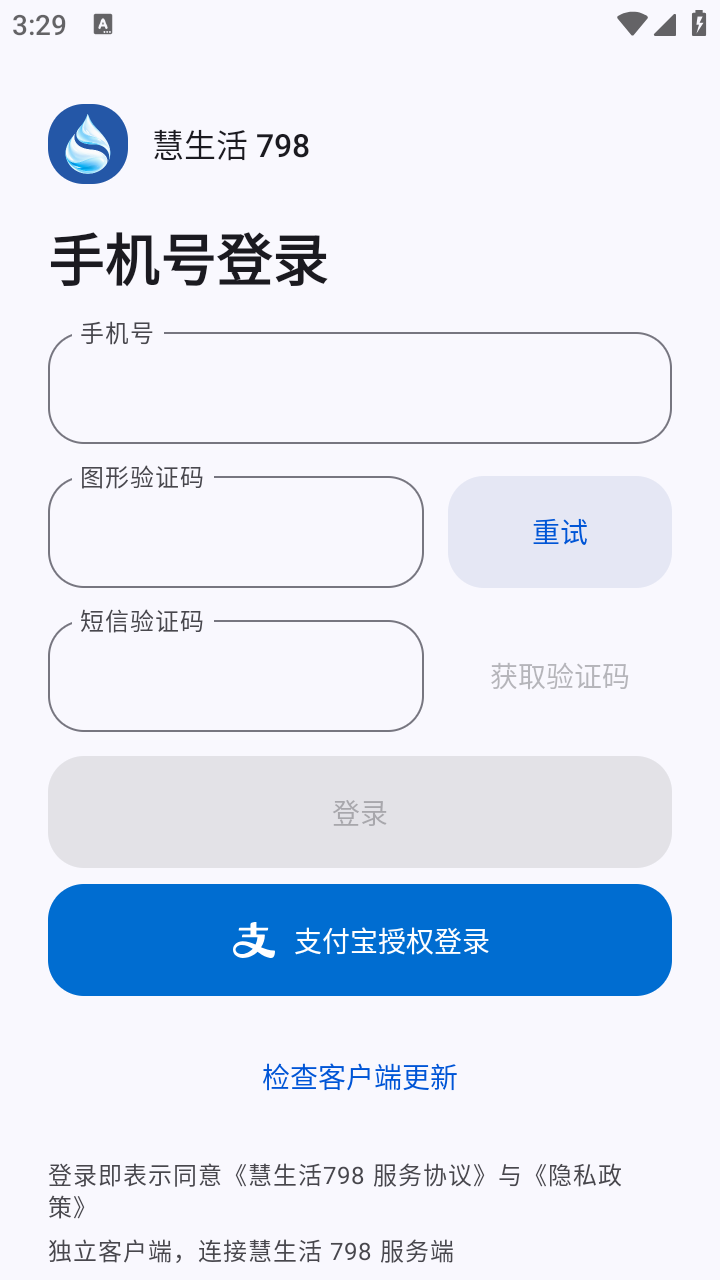
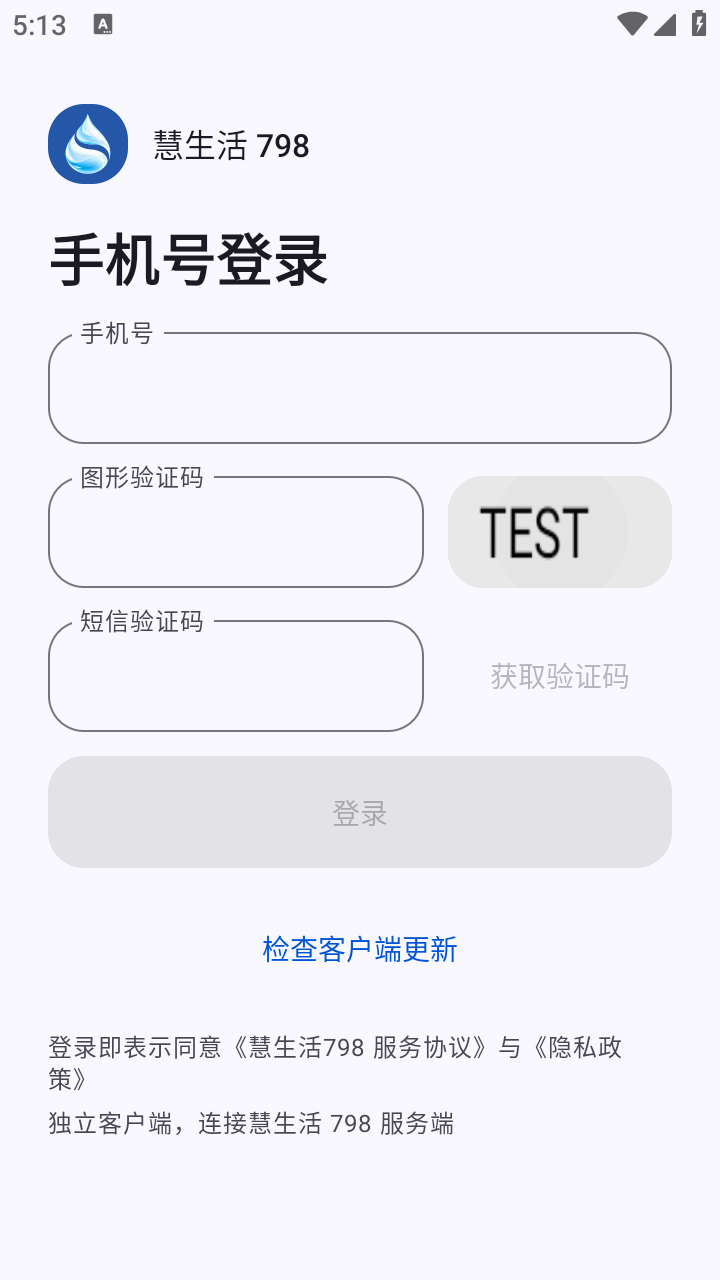
chore(release): 移除支付宝授权登录并准备 2.4.3

diff --git a/SmartLife798/app/src/main/java/com/smartlife798/app/ui/LoginScreen.kt b/SmartLife798/app/src/main/java/com/smartlife798/app/ui/LoginScreen.kt
@@ -6,7 +6,6 @@
 package com.smartlife798.app.ui
 
 import android.graphics.BitmapFactory
-import androidx.activity.compose.LocalActivity
 import androidx.compose.foundation.Image
 import androidx.compose.foundation.background
 import androidx.compose.foundation.clickable
@@ -36,7 +35,6 @@ import androidx.compose.foundation.text.input.clearText
 import androidx.compose.foundation.verticalScroll
 import androidx.compose.material3.ButtonDefaults
 import androidx.compose.material3.Button
-import androidx.compose.material3.Icon
 import androidx.compose.material3.LoadingIndicator
 import androidx.compose.material3.MaterialTheme
 import androidx.compose.material3.OutlinedTextField
@@ -58,7 +56,6 @@ import androidx.compose.ui.draw.clip
 import androidx.compose.ui.draw.scale
 import androidx.compose.ui.graphics.asImageBitmap
 import androidx.compose.ui.layout.ContentScale
-import androidx.compose.ui.platform.LocalFocusManager
 import androidx.compose.ui.res.colorResource
 import androidx.compose.ui.res.painterResource
 import androidx.compose.ui.text.font.FontWeight
@@ -83,8 +80,6 @@ import kotlin.random.Random
 fun LoginScreen(vm: MainViewModel, modifier: Modifier = Modifier) {
     val checkingUpdate by vm.checkingUpdate.collectAsStateWithLifecycle()
     val loginMethod by vm.loginMethod.collectAsStateWithLifecycle()
-    val activity = LocalActivity.current
-    val focusManager = LocalFocusManager.current
     val scope = rememberCoroutineScope()
     val phone = remember { TextFieldState() }
     val captchaInput = remember { TextFieldState() }
@@ -121,7 +116,6 @@ fun LoginScreen(vm: MainViewModel, modifier: Modifier = Modifier) {
 
     val fieldShape = MaterialTheme.shapes.medium
     val submitting = loginMethod == MainViewModel.LoginMethod.SMS
-    val authorizing = loginMethod == MainViewModel.LoginMethod.ALIPAY
     val fieldLabelPosition = TextFieldLabelPosition.Attached(alwaysMinimize = true)
     val sideAction = Modifier.width(112.dp).heightIn(min = AppLayout.ActionHeight)
     Box(
@@ -284,41 +278,7 @@ fun LoginScreen(vm: MainViewModel, modifier: Modifier = Modifier) {
                     }
                     Text(if (submitting) "登录中…" else "登录")
                 }
-                if (vm.alipayLoginAvailable && activity != null) {
-                    Button(
-                        enabled = loginMethod == null && !sending,
-                        onClick = {
-                            if (loginMethod != null || sending) return@Button
-                            focusManager.clearFocus()
-                            scope.launch {
-                                error = null
-                                val result = vm.loginWithAlipay(activity)
-                                if (result is Res.Fail) {
-                                    error = result.msg
-                                    vm.notify(result.msg)
-                                }
-                            }
-                        },
-                        modifier = Modifier.fillMaxWidth().heightIn(min = AppLayout.ActionHeight),
-                        shapes = ButtonDefaults.shapes(shape = fieldShape),
-                        colors = ButtonDefaults.buttonColors(
-                            containerColor = colorResource(R.color.alipay_login_background),
-                            contentColor = colorResource(R.color.alipay_login_foreground),
-                        ),
-                    ) {
-                        if (authorizing) {
-                            LoadingIndicator(Modifier.size(18.dp))
-                        } else {
-                            Icon(
-                                painter = painterResource(R.drawable.ic_alipay),
-                                contentDescription = null,
-                                modifier = Modifier.size(24.dp),
-                            )
-                        }
-                        Spacer(Modifier.width(8.dp))
-                        Text(if (authorizing) "支付宝登录处理中…" else "支付宝授权登录")
-                    }
-                }
+
             }
 
             if (BuildConfig.RELEASE_UPDATES_ENABLED) {

diff --git a/SmartLife798/app/src/main/java/com/smartlife798/app/vm/MainViewModel.kt b/SmartLife798/app/src/main/java/com/smartlife798/app/vm/MainViewModel.kt
@@ -988,12 +988,11 @@ class MainViewModel(app: Application) : AndroidViewModel(app) {
 
     // ------------------------------------------------------------------ auth
 
-    enum class LoginMethod { SMS, ALIPAY }
+    enum class LoginMethod { SMS }
 
     private val loginAttempt = Mutex()
     private val _loginMethod = MutableStateFlow<LoginMethod?>(null)
     val loginMethod = _loginMethod.asStateFlow()
-    val alipayLoginAvailable: Boolean get() = com.smartlife798.app.core.AlipayLogin.isConfigured
 
     suspend fun requestCaptcha(seed: String, ts: String): ByteArray? = withContext(Dispatchers.IO) {
         Api.captcha(seed, ts)
@@ -1004,31 +1003,6 @@ class MainViewModel(app: Application) : AndroidViewModel(app) {
 
     suspend fun login(phone: String, sms: String): Res<LoginData> =
         runLogin(LoginMethod.SMS, phone) { Api.login(phone, sms) }
-
-    suspend fun loginWithAlipay(activity: android.app.Activity): Res<LoginData> =
-        loginWithAlipay { com.smartlife798.app.core.AlipayLogin.authorize(activity) }
-
-    internal suspend fun loginWithAlipay(authorize: suspend () -> Res<String>): Res<LoginData> =
-        runLogin(LoginMethod.ALIPAY, phone = null) { loginGeneration ->
-            if (session.versionHeader() != com.smartlife798.app.core.LoginSign.PROTOCOL) {
-                return@runLogin Api.unsupportedLoginProtocol()
-            }
-            when (val authorization = authorize()) {
-                is Res.Fail -> authorization
-                is Res.Ok -> {
-                    val code = authorization.data ?: return@runLogin Res.Fail(-1, "支付宝授权未返回授权码")
-                    if (loginGeneration != accountGeneration) throw CancellationException("Login session changed")
-                    when (val result = Api.loginWithAlipay(code)) {
-                        is Res.Ok -> result
-                        is Res.Fail -> Res.Fail(result.code, when (result.code) {
-                            -98 -> "此账号需要手机验证，请使用手机号登录"
-                            ErrorCodes.NETWORK -> "网络不可用，请检查网络后重新授权"
-                            else -> "支付宝登录未完成，请重新授权或使用手机号登录"
-                        })
-                    }
-                }
-            }
-        }
 
     private suspend fun runLogin(
         method: LoginMethod,

diff --git a/SmartLife798/app/src/androidTest/java/com/smartlife798/app/UpdateInstallInstrumentation.kt b/SmartLife798/app/src/androidTest/java/com/smartlife798/app/UpdateInstallInstrumentation.kt
@@ -26,7 +26,7 @@ class UpdateInstallInstrumentation : Instrumentation() {
     }
 
     override fun callActivityOnCreate(activity: Activity, state: Bundle?) {
-        val appRoot = mode in setOf("visual", "detail-stress", "detail-input", "detail-reopen", "favorite-return", "tabs", "interrupt", "ux", "settings", "login-init", "alipay-login", "check-in-ui", "detail-load", "nfc-navigation", "nfc-auto-start", "nfc-auto-reject")
+        val appRoot = mode in setOf("visual", "detail-stress", "detail-input", "detail-reopen", "favorite-return", "tabs", "interrupt", "ux", "settings", "login-init", "check-in-ui", "detail-load", "nfc-navigation", "nfc-auto-start", "nfc-auto-reject")
         if (appRoot && activity.intent?.getBooleanExtra("offlineFixture", false) == true) {
             ServiceLocator.init(activity)
             com.smartlife798.app.core.Store.saveAutoCheckIn(false)
@@ -71,7 +71,6 @@ class UpdateInstallInstrumentation : Instrumentation() {
         if (mode == "fling") { FlingTapChecks.run(this); return }
         if (mode == "interrupt") { NavigationInterruptionChecks.run(this); return }
         if (mode == "login-init") { LoginInitializationChecks.run(this); return }
-        if (mode == "alipay-login") { AlipayLoginChecks.run(this); return }
         if (mode == "transactions") { TransactionChecks.run(this); return }
         if (mode == "recovery") { RecoveryChecks.run(this); return }
 

diff --git a/SmartLife798/app/src/main/java/com/smartlife798/app/core/Api.kt b/SmartLife798/app/src/main/java/com/smartlife798/app/core/Api.kt
@@ -233,18 +233,7 @@ object Api {
         )
     }
 
-    /** Alipay SDK auth code exchange in the observed 3.1.10 protocol. */
-    internal suspend fun loginWithAlipay(openCode: String): Res<LoginData> {
-        if (session.versionHeader() != LoginSign.PROTOCOL) return unsupportedLoginProtocol()
-        if (!AlipayLogin.validCode(openCode)) return Res.Fail(-1, "支付宝授权码无效，请重新授权")
-        return request(
-            "POST", LoginSign.ENDPOINT, mapOf("sign" to ""),
-            body = mapOf("openCode" to openCode),
-            accountToken = null, protocolVersion = LoginSign.PROTOCOL, dataType = dataType<LoginData>(),
-        )
-    }
-
-    internal fun unsupportedLoginProtocol() = Res.Fail(-1, "当前官方登录协议尚未适配，请检查客户端更新")
+    private fun unsupportedLoginProtocol() = Res.Fail(-1, "当前官方登录协议尚未适配，请检查客户端更新")
 
     /** GET /api/v1/acc/logout */
     suspend fun logout(accountToken: String? = session.token): Res<Unit> =

diff --git a/SmartLife798/app/src/androidTest/java/com/smartlife798/app/LoginInitializationChecks.kt b/SmartLife798/app/src/androidTest/java/com/smartlife798/app/LoginInitializationChecks.kt
@@ -145,6 +145,12 @@ object LoginInitializationChecks {
             }
             stage = "form order"
             val form = nodes(test.uiAutomation.rootInActiveWindow)
+            check(form.none { it.text?.toString() == "支付宝授权登录" })
+            val loginScreenshot = checkNotNull(test.uiAutomation.takeScreenshot())
+            test.targetContext.openFileOutput("login-current.png", 0).use {
+                loginScreenshot.compress(android.graphics.Bitmap.CompressFormat.PNG, 100, it)
+            }
+            loginScreenshot.recycle()
             val fields = form.filter { it.isEditable }.map { Rect().apply(it::getBoundsInScreen) }
             val send = Rect().apply { form.first { it.text?.toString() == "获取验证码" }.getBoundsInScreen(this) }
             val image = Rect().apply {

diff --git a/README.md b/README.md
@@ -6,7 +6,7 @@
 |---|---|
 | 正式版包名 | `com.smartlife798.app` |
 | Beta 版包名 | `com.smartlife798.app.debug` |
-| 当前版本 | `2.4.2`（`versionCode 103`） |
+| 当前版本 | `2.4.3`（`versionCode 104`） |
 | 技术栈 | Kotlin 2.2 · Jetpack Compose (Material 3 Expressive) · OkHttp · CameraX + ML Kit · Alipay SDK |
 | 最低版本 | Android 7.0（API 24） |
 | 正式发布 | [最新 Release](https://github.com/wu-shanglin/Smartlife798/releases/latest) |
@@ -15,13 +15,13 @@
 
 ## 当前版本
 
-**2.4.2 / 103**（开发候选）将已加载订单按创建时间倒序排列。支付宝授权登录需要受支持的服务端协议及构建时配置的授权请求串。配置和验证范围见 [构建说明](docs/06-工程规范与路线图.md#支付宝登录构建配置)。
+**2.4.3 / 104**（正式发布）移除支付宝授权登录，保留手机号登录及支付宝支付功能。
 
 **2.1.11 / 79** 适配原版 3.1.10 短信登录签名，补齐登录请求的 `sign` 参数。签名通过原版合成向量及离线登录验证，真实账号验收待完成。详见 [登录签名](docs/01-逆向分析报告.md#51-登录与账号)。
 
 **2.1.10 / 78**（已发布）：常用设备详情完全展开后，普通返回和预测性返回均沿原路径缩回打开它的卡片；账单详情恢复 2.1.6 的弹簧曲线、遮罩和 Material 预测性返回缩放；账单点击立即展开摘要并加载详情，修复导航返回拦截；扫码卡片增加留白、缩小文案与减轻内部按钮底色；恢复常用设备紧凑高度、减轻按钮背景层级并美化检查更新入口；统一页面对齐与按钮高度、在线绿色/使用中黄色状态及未选中按钮背景，修复置顶卡片高度、近期记录合并与待付查询账号隔离；详情保留当前来源页并隔离后台刷新，避免快速返回时列表重建；账单左键“暂不支付”只关闭面板并保留待付，真实取消仍需接口依据，见 docs/05。2.0.0 启用全新独立 release 签名，停止支持此前所有版本。旧签名应用无法覆盖升级，请先结束设备使用、核对账单，再卸载旧应用，从正式 Release 页面下载新版安装并重新登录。卸载会删除本机常用/最近/置顶及设置；服务端账号数据以重新登录后的返回为准。新版保留浅色卡片、统一置顶、三页引导及安全镜像更新。
 
-正式更新包及版本说明以 [GitHub 最新 Release](https://github.com/wu-shanglin/Smartlife798/releases/latest) 为准。2.1.11 按强制更新发布，最低支持码为 **79**。低于该版本码的客户端在取得有效策略后须安装更新才能继续使用。
+正式更新包及版本说明以 [GitHub 最新 Release](https://github.com/wu-shanglin/Smartlife798/releases/latest) 为准。最低支持码维持 **79**。低于该版本码的客户端在取得有效策略后须安装更新才能继续使用。
 
 2.x 使用全新证书，1.x（含旧签名的 1.22.0 候选包）不能覆盖安装到 2.x。旧更新器拒绝不同证书的 APK 属于正确保护行为，不能关闭签名校验解决；请按新版 Release 的说明卸载后手动安装。未来 2.x 版本保持新签名连续性。
 
@@ -49,13 +49,13 @@
 
 ## 构建与产物
 
-2.4.2 为开发候选版本，日常试装使用独立 Debug 包。
+2.4.3 为正式发布版本，日常试装使用独立 Debug 包。
 
 唯一 Android 工程为 `SmartLife798/`；先按 [构建与运行](docs/03-技术方案与开发计划.md#4-构建与运行) 准备 JDK/SDK、本机 `local.properties`，再按 [检查与证据](docs/06-工程规范与路线图.md#2-检查与证据) 执行适用检查。release 签名及产物准备见 [版本与发布](docs/06-工程规范与路线图.md#3-版本与发布)。
 
 | 本地构建 | 文件 |
 |---|---|
-| 产物 | [`dist/SmartLife798-2.4.2-release.apk`](dist/SmartLife798-2.4.2-release.apk) |
+| 产物 | [`dist/SmartLife798-2.4.3-release.apk`](dist/SmartLife798-2.4.3-release.apk) |
 
 日常试装使用 `SmartLife798/app/build/outputs/apk/debug/app-debug.apk`。桌面的「慧生活 798 Beta 版」可与正式版并存，分别保存应用数据。上表是正式发布时的产物路径，只有明确授权打包 Release 并发布后才生成。
 

diff --git a/docs/01-逆向分析报告.md b/docs/01-逆向分析报告.md
@@ -198,7 +198,7 @@ sign    = lowercaseHex(keyedBLAKE3(utf8(key), utf8(payload))[0:16])
 
 **取证方法**。恢复 DEX 保留了端点和签名工具声明，受保护的登录调用方需要运行时观测。原包在已 root 模拟器中短暂显示登录页面后退出，退出原因未定位。直接启动 `LoginActivity`，在进程运行后用 Frida 附加，在 Activity 恢复时触发合成输入的登录提交，并于请求前截断。原版签名与独立实现的三个合成样本逐字节一致，包括短信码前导零及相邻时间桶的边界。参见 [合成向量](../SmartLife798/app/src/test/java/com/smartlife798/app/core/LoginSignTest.kt)与 [离线验证](05-真实支付与计费实测.md#短信登录签名离线复核2026-11-11)。
 
-**支付宝授权登录**。REA 在 3.1.5 的 `LoginActivity.o0 → handleAliAuthLoginClick$1.invokeSuspend → p0 → w0` 中确认，原应用把内置的已签名授权请求交给支付宝 SDK 的 `AuthTask.authV2`。仅在 `resultStatus=9000` 且 `result_code=200` 时取 `auth_code`，用作 `LoginParm.openCode`。在 3.1.10 的恢复 DEX 中找到同一授权请求串和 Retrofit `x3.a.d` 的 `Body`、`Query("sign")` 注解。对已安装的 3.1.10 原包屏蔽其 UID 的 IPv4/IPv6 出站后，用合成授权码调用受保护的 `LoginActivity.c0`，在 `Y` 入口截断。捕获到 `un=null`、`authCode=null`、`openCode=<合成授权码>` 和空字符串 `sign`，据此构造匿名 `POST /api/v1/acc/login?sign=`，JSON 仅含 `openCode`。3.1.10 的账号补齐提交与真实支付宝、服务端授权码交换仍待验证。重制客户端收到 `-98` 时提示使用手机号登录。
+**支付宝授权登录**。REA 在 3.1.5 的 `LoginActivity.o0 → handleAliAuthLoginClick$1.invokeSuspend → p0 → w0` 中确认，原应用把内置的已签名授权请求交给支付宝 SDK 的 `AuthTask.authV2`。仅在 `resultStatus=9000` 且 `result_code=200` 时取 `auth_code`，用作 `LoginParm.openCode`。在 3.1.10 的恢复 DEX 中找到同一授权请求串和 Retrofit `x3.a.d` 的 `Body`、`Query("sign")` 注解。对已安装的 3.1.10 原包屏蔽其 UID 的 IPv4/IPv6 出站后，用合成授权码调用受保护的 `LoginActivity.c0`，在 `Y` 入口截断。捕获到 `un=null`、`authCode=null`、`openCode=<合成授权码>` 和空字符串 `sign`，据此构造匿名 `POST /api/v1/acc/login?sign=`，JSON 仅含 `openCode`。3.1.10 的账号补齐提交与真实支付宝、服务端授权码交换仍待验证。重制客户端当前使用手机号登录。
 
 REA 静态记录包括 SDK 调用 `ev_4c2cc43fc66040705c6199ab5bcef96c5e8c84efd0b0c15ff8807791579ab758`、结果筛选 `ev_6a34a4564da53b182828cec5c051eb9091c07118fce1618acb808595170bfd3e` 和提交模型 `ev_004df1fcd5b77d38b7e21b252e640310073c37812411ef4719fafe1b6b828730`。重制客户端使用自己包名与签名，授权请求须由可为本客户端签发的登录服务提供方提供，并能由慧生活服务端兑换会话。
 

diff --git a/CHANGELOG.md b/CHANGELOG.md
@@ -7,11 +7,11 @@
 
 ## [Unreleased]
 
+## [2.4.3] - 2026-11-13
+
+- 移除支付宝授权登录及相关配置，保留支付宝支付与签约。
+
 - 订单列表中已加载的账单按创建时间倒序排列，加载更多时重新排序。
-
-- 支付宝授权登录按钮改用蓝底白字，并增加支付宝图标。
-
-- 增加可配置的支付宝授权登录。配置后在手机号登录按钮下方提供入口，服务端确认会话后进入首页。
 
 - 补充第二张 NFC 引导卡截图及设备详情转场的离线验收记录。
 
